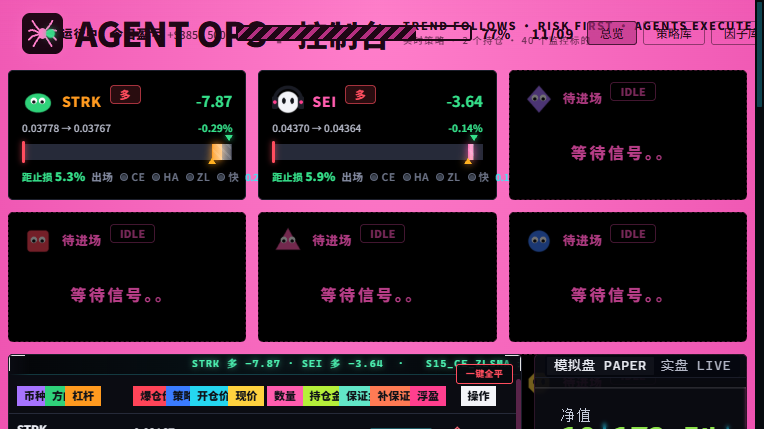
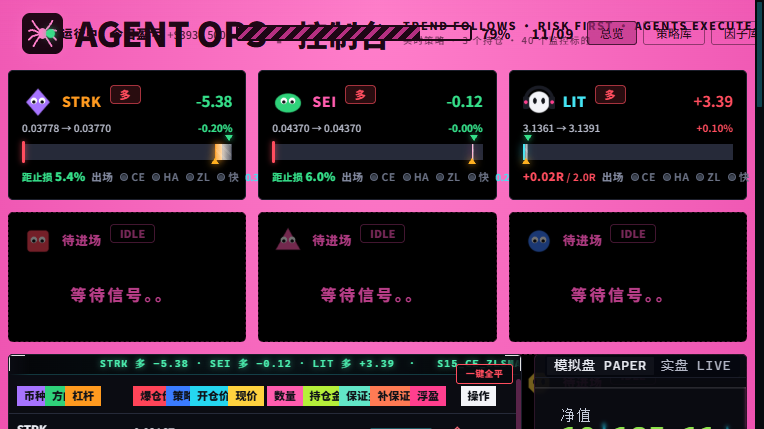
fix(gates): 持仓的币不再挂「池外」标签
池内池外只决定「能不能开新仓」，与已持仓的币无关：
仓位一旦开了就由 position_loop 遍历持仓表管到底，出场完全不看监控池
（engine.py manage_positions 走 db.open_positions()，check_exit 内无 monitor 判断）。

SEI 因为成交额 10M 排不进 40 个名额被挤出池，但 EFF 0.340 本身达标，
标签与「已开仓」并列时看起来像"没人管"，实际出场照跑。

改动：前端 outPool 标签加 !r.opened 条件，只在未持仓时显示。

diff --git a/frontend-v2/src/panels/ActivityTabs.jsx b/frontend-v2/src/panels/ActivityTabs.jsx
@@ -147,7 +147,10 @@ export default function ActivityTabs({ signals, trades, logs, gates, events }) {
       render: (v, r) => (
         <span>
           {v.replace('USDT', '')}
-          {!r.in_monitor && <Tag color="default" style={{ marginLeft: 2, fontSize: 9, padding: '0 3px' }}>{t('gate.outPool')}</Tag>}
+          {/* 池内池外只决定「能不能开新仓」，跟已持仓的币无关：
+              仓位一旦开了就由持仓循环管到底（出场不看池）。
+              给持仓币挂「池外」只会让人以为它没人管，所以只在未持仓时显示。 */}
+          {!r.in_monitor && !r.opened && <Tag color="default" style={{ marginLeft: 2, fontSize: 9, padding: '0 3px' }}>{t('gate.outPool')}</Tag>},
         </span>
       ) },
     { title: t('gate.col.dir'), dataIndex: 'dir', width: 40,
